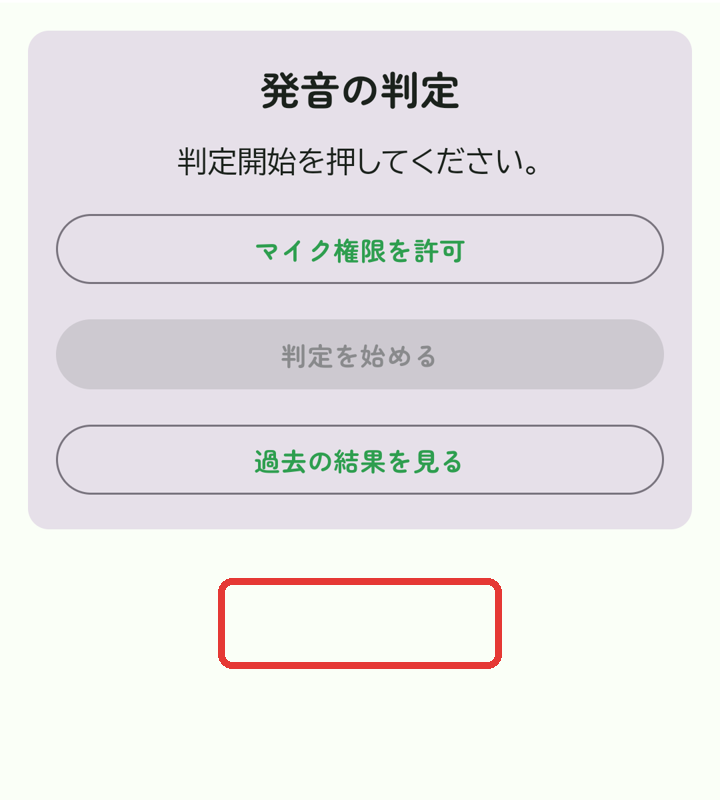
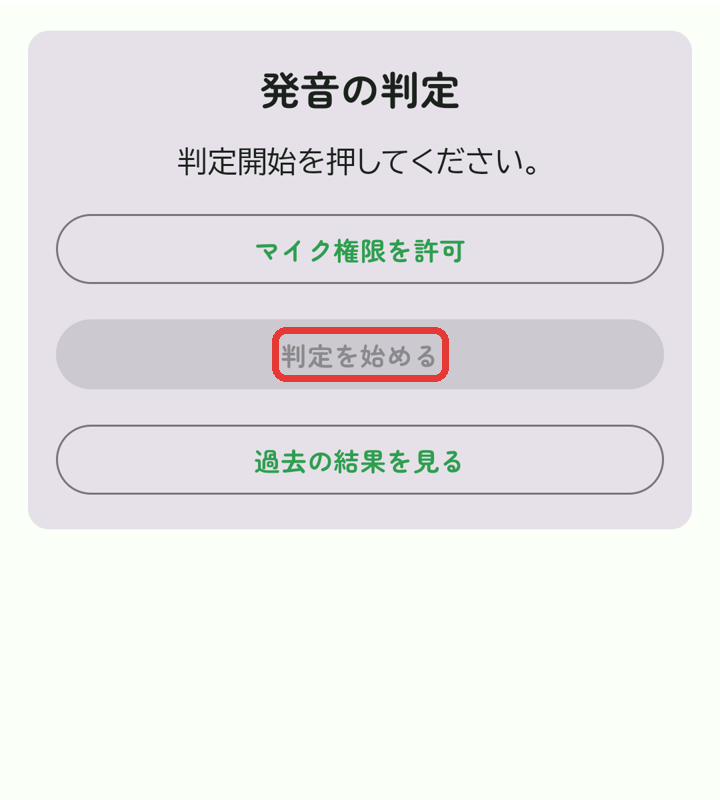
Tutorial refinements: fix assessment highlight position, revise step texts (menu explanation, item guidance), add don't-show-again option, remove subtitle

Changed region(s): [[0.3056, 0.7188, 0.7028, 0.8438], [0.3667, 0.4062, 0.6417, 0.5]]

diff --git a/app/page.tsx b/app/page.tsx
@@ -1711,11 +1711,11 @@ function TutorialView() {
   const pages = useMemo(() => ([
     { headline: "このアプリでできること", body: "「発音」の練習と判定、「食事」の記録、「カレンダー／ログ」で記録の確認ができます。\n\nはじめに大事なお知らせがあります。次へ進んでください。", img: "tut_home" },
     { headline: "【大切なお知らせ】食事の管理機能はアルファ版です", body: "食事入力のAI解析・カロリーやタンパク質の自動推定、筋肉量測定などはアルファ版（試験版）で、十分な精度はありません。参考値としてご利用ください。\n\n正確な評価は、かかりつけ医・言語聴覚士・管理栄養士等の専門職にご相談ください。", img: null, notice: true },
-    { headline: "① ホームの「発音」を開く", body: "練習をするときは、まず緑の「発音」ボタンを押します。", img: "tut_home" },
-    { headline: "② 「発音練習」を選ぶ", body: "メニューが表示されます。「発音練習」を押します。", img: "tut_speech_menu" },
-    { headline: "③ 大項目を選ぶ", body: "練習の種類（大項目）を選びます。例では「子音練習」を選びます。", img: "tut_practice_cat" },
+    { headline: "① ホームの「発音」を開く", body: "発音の練習をするときは、まず緑の「発音」ボタンを押します。", img: "tut_home" },
+    { headline: "② 「発音練習」を選ぶ", body: "メニューが表示されます。\n課題提出ボタンで発音課題のメール送信、発音の判定ボタンで単音の発音の評価が、F2・tVSA音響評価で音響分析での母音の発音能力が、発音練習ボタンで実際に発音の練習ができます。\n\n発音練習をするときは「発音練習」ボタンを押します。", img: "tut_speech_menu" },
+    { headline: "③ 大項目を選ぶ", body: "様々な項目があります。必要な内容を選んでください。順番にやっても、好きな項目だけやっても構いません。\n\n例では「子音練習」を選びます。", img: "tut_practice_cat" },
     { headline: "④ 中項目を選ぶ", body: "練習したい音の行（中項目）を選びます。例では「タ行」を選びます。", img: "tut_practice_group" },
-    { headline: "⑤ 小項目を選ぶ", body: "具体的な練習（小項目）を選びます。例では「た」の出し方を選びます。", img: "tut_practice_items" },
+    { headline: "⑤ 小項目を選ぶ", body: "「た」の出し方の説明や、実際に単音や単語での練習があります。順番にやっても、必要な内容だけしても構いませんが、初めは順番にやってみましょう。\n\n例では「た」の出し方を選びます。", img: "tut_practice_items" },
     { headline: "⑥ 見て、まねして、練習", body: "説明と絵・動画を見て練習します。\n・「次へ」で次の項目へ\n・「一覧へ」で終わり（カエルが褒めてくれます）\n・「小さく／大きく」で文字サイズを変えられます\n・音が出る項目では録音もできます", img: "tut_practice_detail" },
     { headline: "⑦ 単語明瞭度テスト", body: "小項目の最後にある「〇行のテスト」を開き、「テストを始める」を押します。表示されたことばを読み上げると、10問の正答数が判定されます。結果はカレンダー／ログに残ります。", img: "tut_wordtest" },
     { headline: "⑧ 発音の判定（25音）", body: "メニューの「発音の判定」→「判定をはじめる」で、25音を1音ずつ読み上げて聞こえ方を確認します。音声認識はChromeまたはEdgeでお使いください。", img: "tut_assessment" },
@@ -1853,9 +1853,12 @@ export default function Home() {
                 setView("tutorial");
               }}>見る</button>
               <button className="button ghost" onClick={() => {
-                localStorage.setItem("articulation:tutorial_prompted", "1");
                 setShowTutorialInvite(false);
               }}>今は見ない</button>
+              <button className="button ghost" onClick={() => {
+                localStorage.setItem("articulation:tutorial_prompted", "1");
+                setShowTutorialInvite(false);
+              }}>今後見ない</button>
             </div>
           </div>
         </div>
